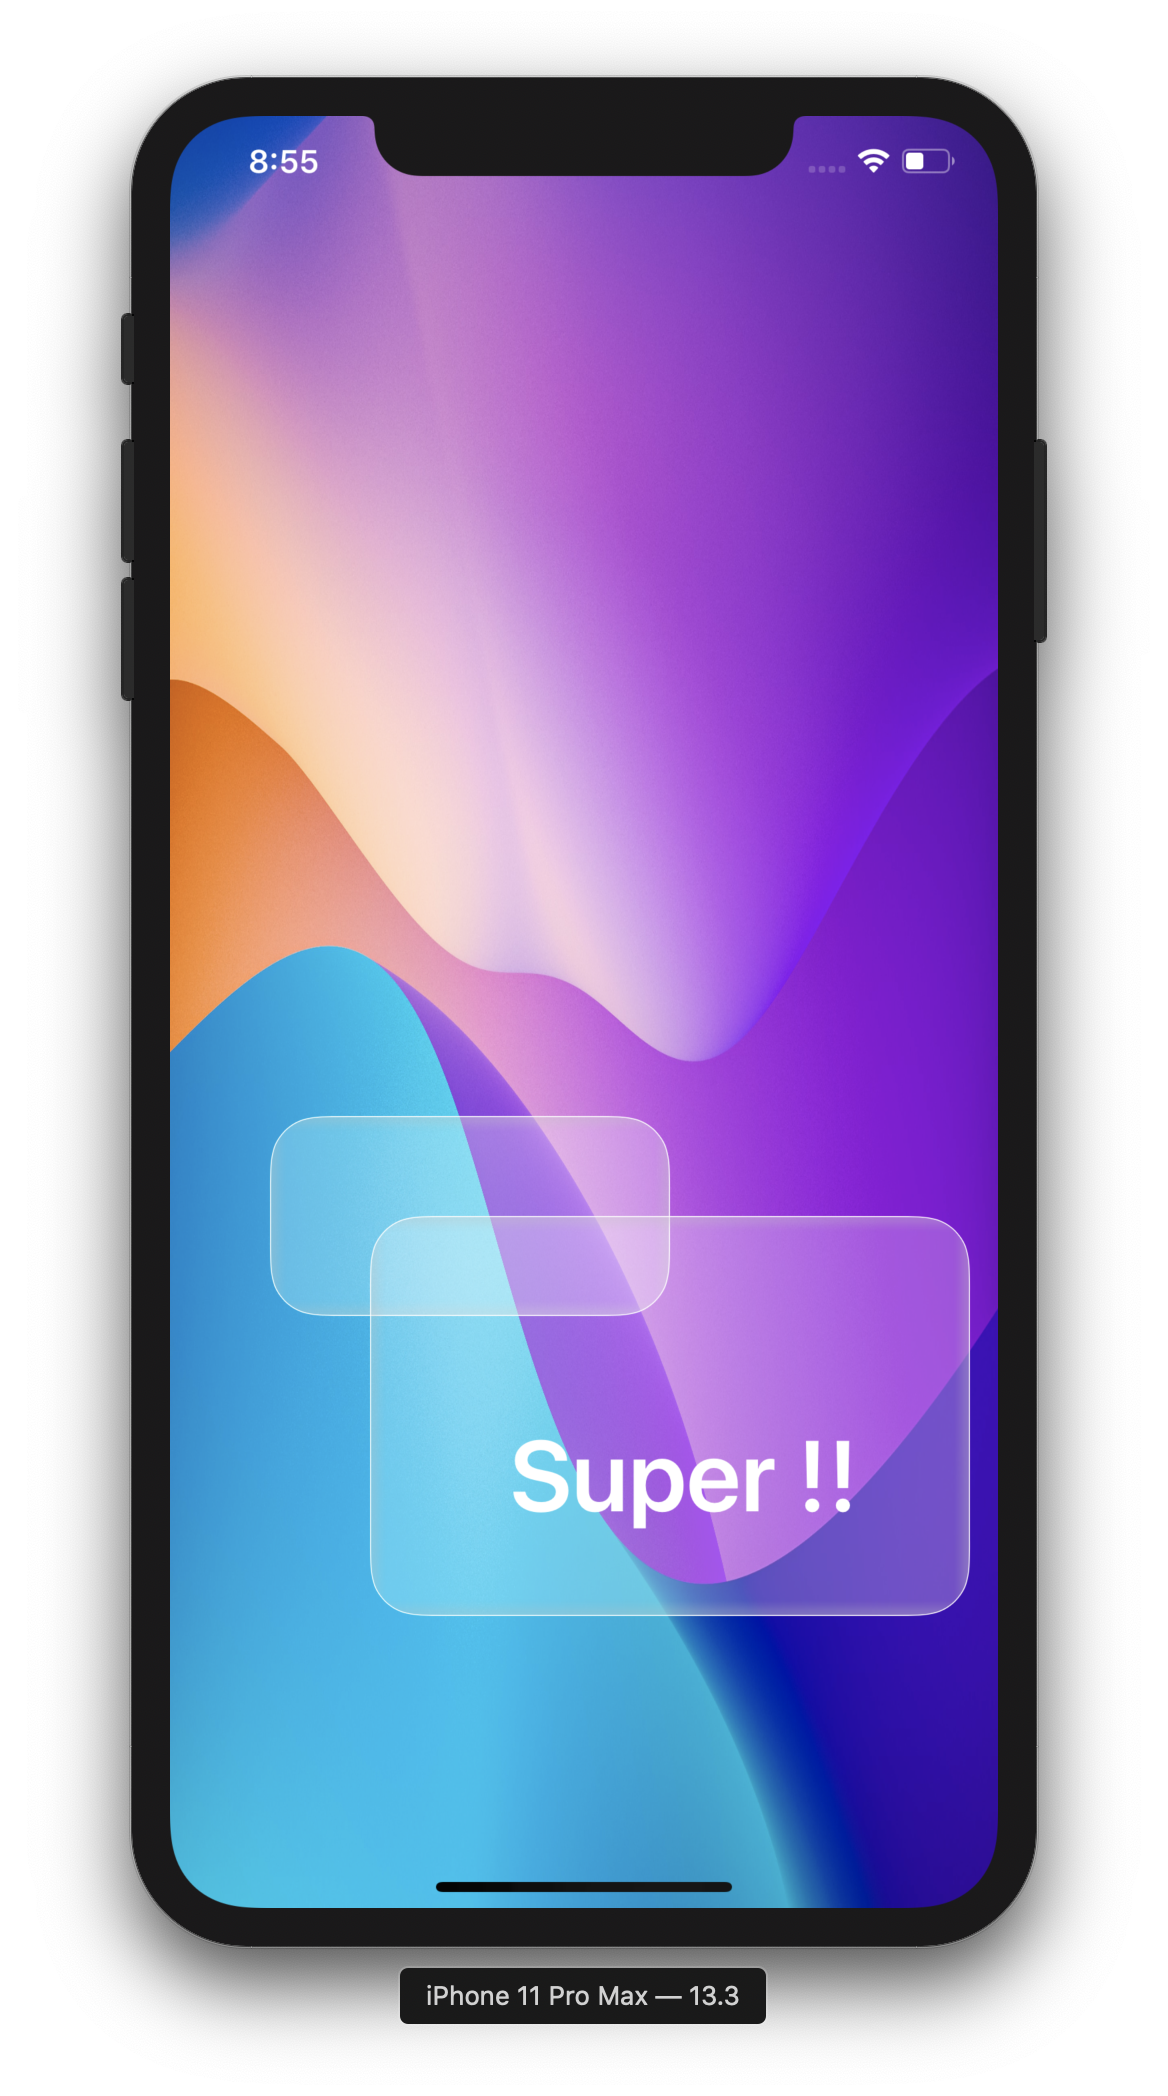
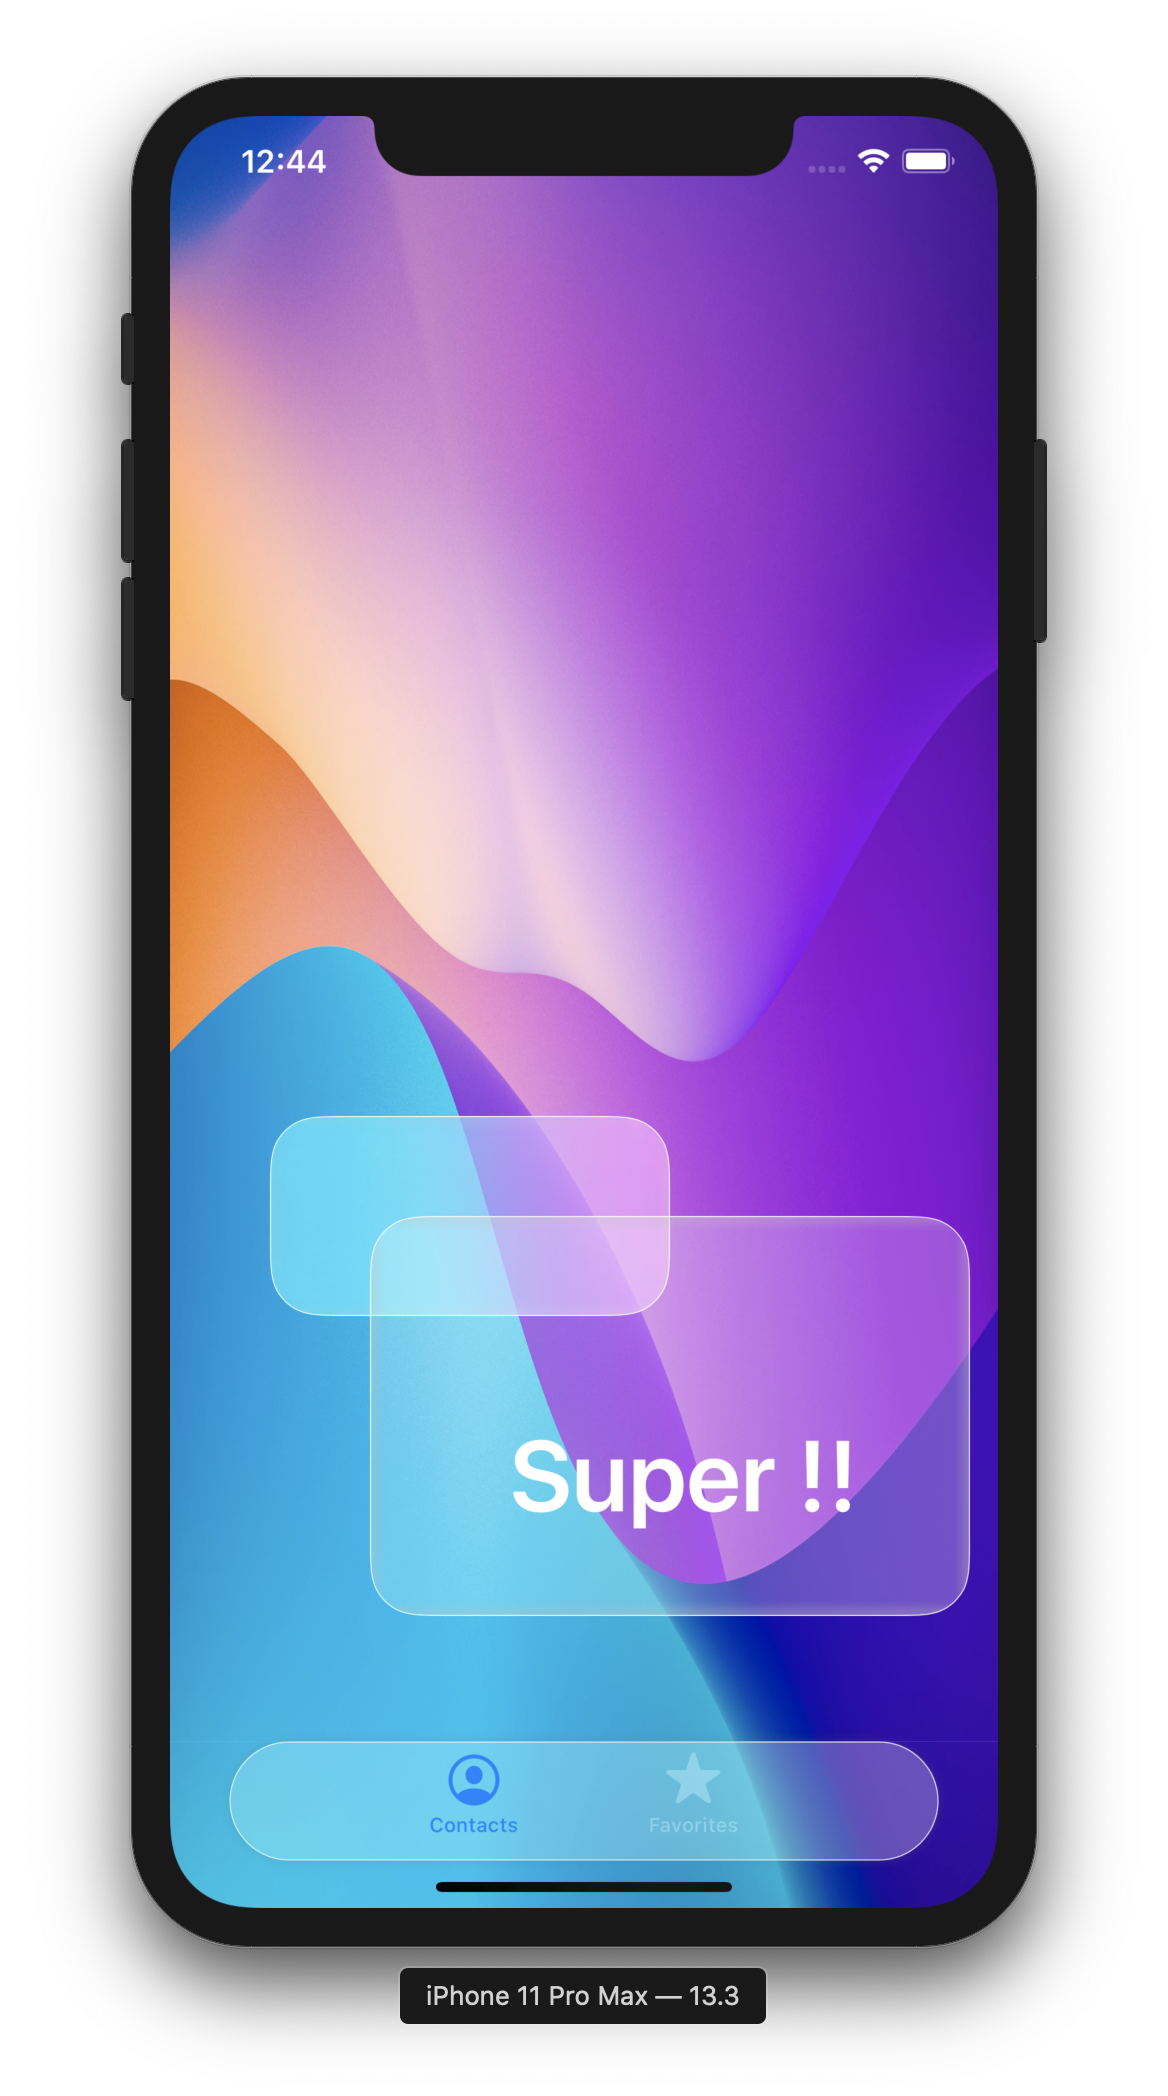
add tabor

diff --git a/Tried-Glassmorphism/SceneDelegate.swift b/Tried-Glassmorphism/SceneDelegate.swift
@@ -18,7 +18,7 @@ class SceneDelegate: UIResponder, UIWindowSceneDelegate {
 		// This delegate does not imply the connecting scene or session are new (see `application:configurationForConnectingSceneSession` instead).
 		guard let windowScene = (scene as? UIWindowScene) else { return }
 		let window = UIWindow(windowScene: windowScene)
-		window.rootViewController = ViewController()
+		window.rootViewController = createTabbar()
 		window.makeKeyAndVisible()
 		self.window = window
 	}
@@ -50,7 +50,68 @@ class SceneDelegate: UIResponder, UIWindowSceneDelegate {
 		// Use this method to save data, release shared resources, and store enough scene-specific state information
 		// to restore the scene back to its current state.
 	}
+	
+	private func createTabbar() -> UITabBarController {
+		let tabbarController = UITabBarController()
+		tabbarController.viewControllers = [createFirstViewController(),
+								  createSecondViewController()]
 
+		tabbarController.tabBar
+			.layer
+			.insertSublayer(createMask(tabBar: tabbarController.tabBar),
+							at: 0)
+		tabbarController.tabBar.itemPositioning = .centered
 
+		// remove tabBar background
+		tabbarController.tabBar.backgroundImage = UIImage()
+		tabbarController.tabBar.shadowImage = UIImage()
+		tabbarController.tabBar.isTranslucent = true
+		return tabbarController
+	}
+	
+	private func createFirstViewController() -> ViewController {
+		let viewController        = ViewController()
+		viewController.tabBarItem = UITabBarItem(tabBarSystemItem: .contacts, tag: 0)
+		return viewController
+	}
+	
+	private func createSecondViewController() -> ViewController {
+		let secondVC        = ViewController()
+		secondVC.tabBarItem = UITabBarItem(tabBarSystemItem: .favorites, tag: 1)
+		return secondVC
+	}
+	
+	private func createMask(tabBar: UITabBar) -> CAShapeLayer {
+		let rectanglePath = UIBezierPath(
+			roundedRect: CGRect(x: 30,
+								y: tabBar.bounds.minY,
+								width: tabBar.bounds.width - 60,
+								height: tabBar.bounds.height + 10),
+			cornerRadius: (tabBar.frame.width/2)).cgPath
+
+		let layer = CAShapeLayer()
+		layer.path = rectanglePath
+		layer.opacity = 0.3
+		layer.isHidden = false
+		layer.masksToBounds = false
+		layer.fillColor = UIColor.white.cgColor
+
+		// draw shadow
+		layer.shadowColor = UIColor.gray.cgColor
+		layer.shadowOffset = CGSize(width: 0, height: 0)
+		layer.shadowRadius = 3
+		layer.shadowOpacity = 1
+
+		// draw border
+		let borderLayer = CAShapeLayer()
+		borderLayer.path = rectanglePath
+		borderLayer.fillColor = UIColor.clear.cgColor
+		borderLayer.strokeColor = UIColor.white.cgColor
+		borderLayer.lineWidth = 0.5
+		borderLayer.frame = layer.frame
+		borderLayer.addSublayer(layer)
+		
+		return borderLayer
+	}
 }
 

diff --git a/Tried-Glassmorphism/ViewController.swift b/Tried-Glassmorphism/ViewController.swift
@@ -66,34 +66,40 @@ class TestDraw: UIView {
 	}
 
 	override func draw(_ rect: CGRect) {
+		let rectanglePath = UIBezierPath(roundedRect: rect,
+									 cornerRadius: 25).cgPath
+		// draw mask
 		let maskLayer = CAShapeLayer()
 		maskLayer.frame = rect
-		maskLayer.path = UIBezierPath(roundedRect: rect,
-									  cornerRadius: 25).cgPath
+		maskLayer.path = rectanglePath
 		layer.mask = maskLayer
+
+		// draw border
 		let borderLayer = CAShapeLayer()
-		borderLayer.path = maskLayer.path // Reuse the Bezier path
+		borderLayer.path = rectanglePath
 		borderLayer.fillColor = UIColor.clear.cgColor
 		borderLayer.strokeColor = UIColor.white.cgColor
 		borderLayer.lineWidth = 1
 		borderLayer.frame = rect
 		layer.addSublayer(borderLayer)
 
-		layer.shadowOpacity = 1
-		layer.shadowColor = UIColor.lightGray.cgColor
-		layer.shadowOffset = CGSize(width: 0, height: 0)
-		layer.shadowRadius = 3
-
-		let path = UIBezierPath(
+		// draw shadow
+		let shadowPath = UIBezierPath(
 			roundedRect: bounds.insetBy(dx: 0, dy: 0),
 			cornerRadius: 4)
+
 		let hole = UIBezierPath(
 			roundedRect: bounds.insetBy(dx: 2, dy: 2),
 			cornerRadius: 3)
 			.reversing()
-		path.append(hole)
-		layer.shadowPath = path.cgPath		
-
+		shadowPath.append(hole)
+		layer.shadowPath = shadowPath.cgPath
+		layer.shadowOpacity = 1
+		layer.shadowColor = UIColor.lightGray.cgColor
+		layer.shadowOffset = CGSize(width: 0, height: 0)
+		layer.shadowRadius = 3
+		
+		// draw text
 		"Super !!".draw(at: CGPoint(x: 70, y: 100), withAttributes: [
 			NSAttributedString.Key.foregroundColor : UIColor.white,
 			NSAttributedString.Key.font : UIFont.boldSystemFont(ofSize: 50),
